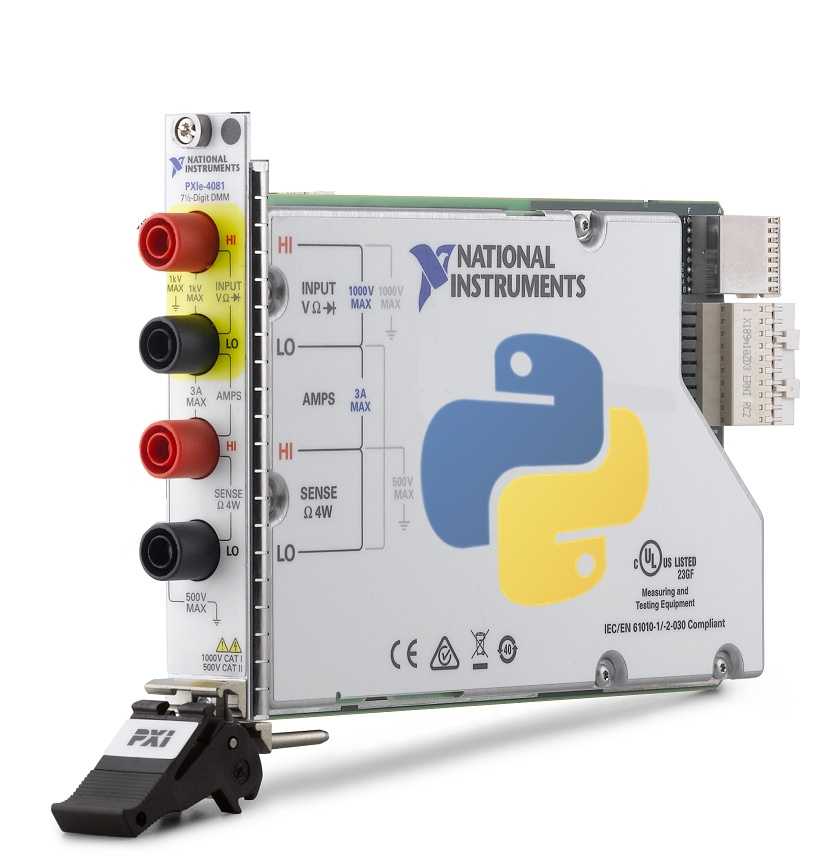
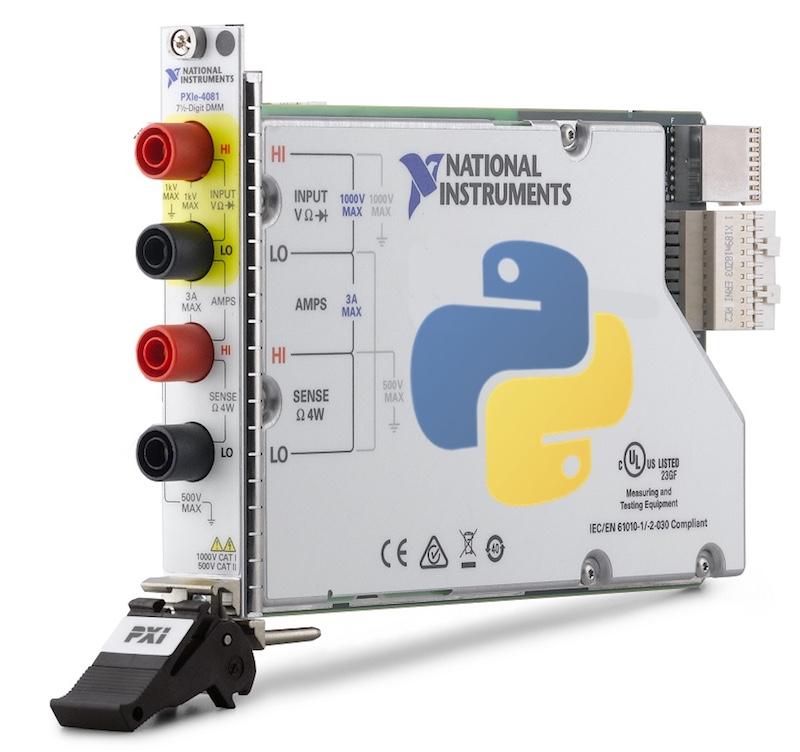
Reduce image size, add height/width to RST

diff --git a/README.rst b/README.rst
@@ -22,6 +22,8 @@ Author       National Instruments
 .. _about-section:
 
 .. image:: https://raw.githubusercontent.com/ni/nimi-python/docs/readme/docs/_static/python%20dmm.jpg
+   :height: 100px
+   :width: 376 px
    :scale: 50 %
    :alt: NI Digital Multimeter with Python logo
    :align: center
